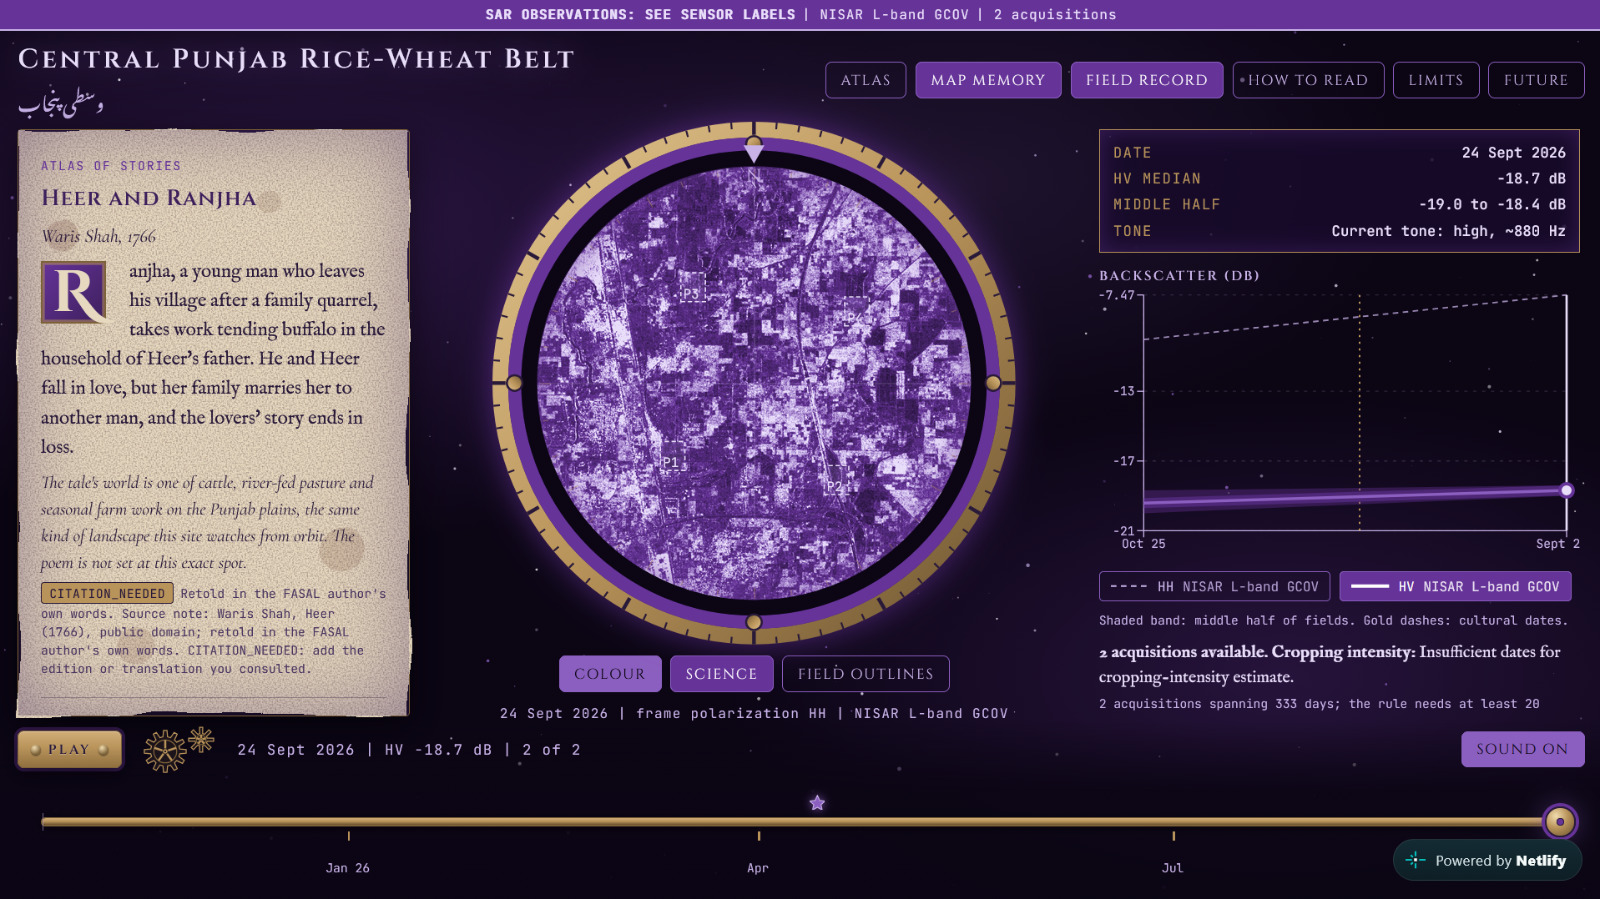
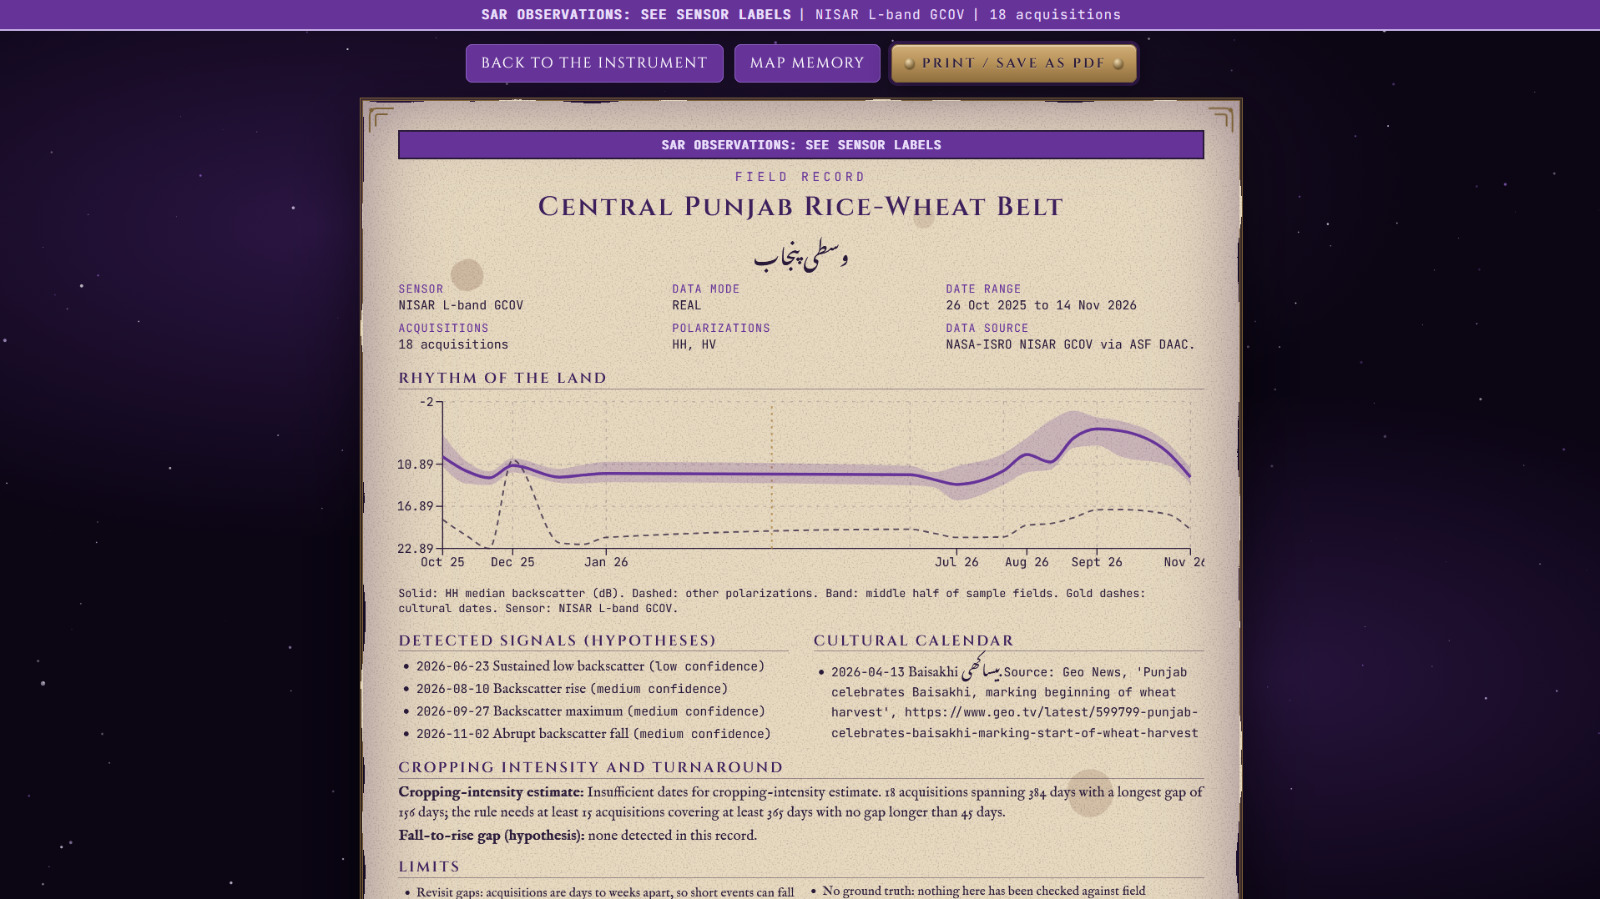
Update

diff --git a/README.md b/README.md
@@ -17,8 +17,9 @@
 
 **[Live Application](https://fasal-nasa-spaceapps.netlify.app/) · [Pipeline Guide](pipeline/00_README.md) · [References](REFERENCES.md) · [Report a bug](../../issues)**
 
-━━━━━━━━━━━━━━━━━━━━ ✦ ━━━━━━━━━━━━━━━━━━━━
 <img src="assets/opening.jpg" alt="FASAL opening scene">
+
+━━━━━━━━━━━━━━━━━━━━ ✦ ━━━━━━━━━━━━━━━━━━━━
 
 </div>
 
@@ -47,7 +48,7 @@ Built solo by **Team Sitaara** for the 2026 NASA Space Apps Challenge, **"Dancin
 
 <br/>
 
-<div align="center"><img src="assets/site-view.jpg" width="1000" alt="FASAL site view: radar porthole, rhythm chart, story card and time scrubber"></div>
+<div align="center"><img src="assets/siteview-colour.jpg" alt="FASAL site view: radar porthole, rhythm chart, story card and time scrubber"></div>
 
 <br/>
 
@@ -87,6 +88,8 @@ Built solo by **Team Sitaara** for the 2026 NASA Space Apps Challenge, **"Dancin
 | **Larkana and Mohenjo-daro**, Sindh | Irrigated rice on the Indus | Sassui and Punhun (Bhittai) | Sindhi Culture Day | Shifting-river history; Map Memory site |
 | **Tharparkar**, Sindh | Rain-fed desert farming | Umar and Marvi (Bhittai) | Sindhi Culture Day | Monsoon-dependent contrast |
 
+<img src="assets/atlas.jpg" alt="Atlas">
+
 
 <br/>
 
@@ -101,11 +104,11 @@ Built solo by **Team Sitaara** for the 2026 NASA Space Apps Challenge, **"Dancin
 | **Field Record** | One-page, print-ready summary: chart, detected signals, cultural calendar, cropping-intensity result or "insufficient dates", limits and credits |
 | **Drawers** | "How to read this", "Limits" and "Future of NISAR + FASAL" |
 
-<div align="center">
 
-<img src="assets/field-record.jpg" alt="FASAL">
-
-</div>
+<p align="center">
+  <img src="assets/map-memory.jpg" alt="Map Memory" width="48%">
+  <img src="assets/field-record.jpg" alt="Field Record" width="48%">
+</p>
 
 <br/>
 
@@ -234,6 +237,11 @@ python pipeline/09_make_basemap.py --sites punjab
 python pipeline/08_build_manifest.py
 ```
 Granules are streamed, never stored whole. If few acquisitions exist, the app says "N acquisitions available" and omits cropping intensity. Full steps, authentication and a manual fallback are in [`pipeline/00_README.md`](pipeline/00_README.md). A site becomes REAL only when its `series.json` says `"data_mode": "real"`.
+
+<p align="center">
+  <img src="assets/2026-08-10_color.png" width="48%">
+  <img src="assets/2026-07-17.png" width="48%">
+</p>
 
 <br/>
 
